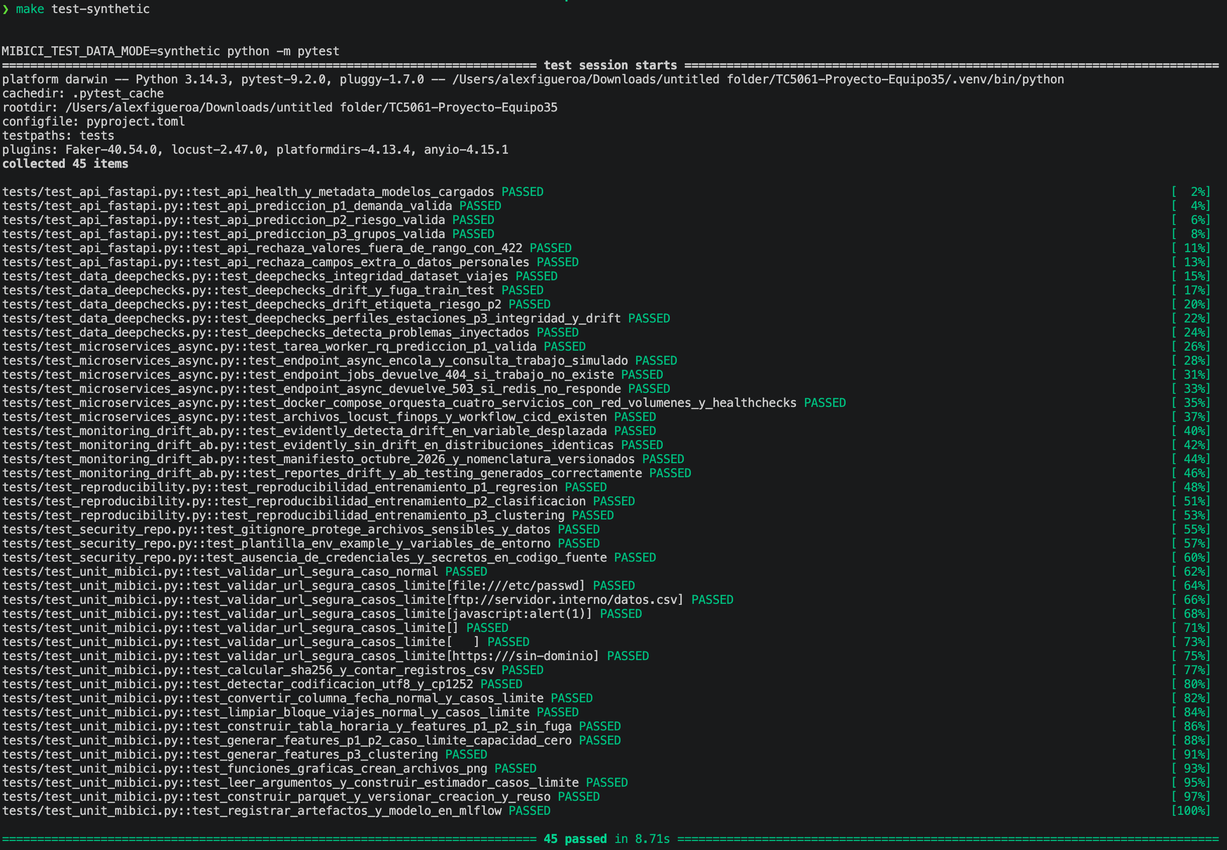
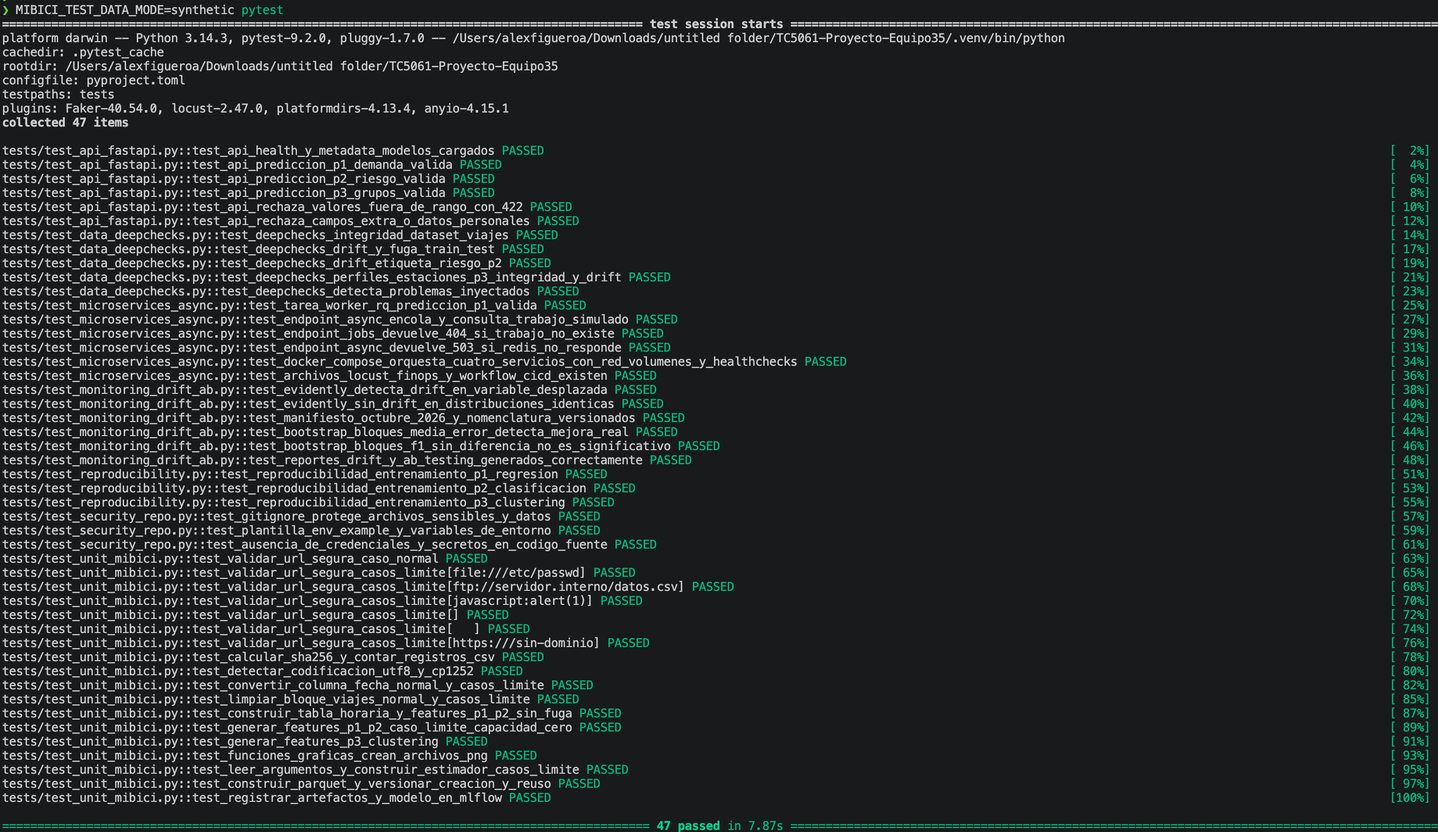
docs(readme): consolidar proyecto final, evidencias de 47 pruebas, Model Card y referencias APA 7

Changed region(s): [[0.0, 0.0, 1.0, 1.0], [0.5602, 0.6775, 0.5913, 0.7083], [0.498, 0.7699, 0.5291, 0.8007]]

diff --git a/README.md b/README.md
@@ -56,7 +56,7 @@ El proyecto fue generado con `cookiecutter-data-science` (`ccds`) activando `inc
 ├── python_env.yaml          <- Entorno del MLflow Project con versiones fijas de Python y dependencias
 ├── pyproject.toml           <- Metadatos del paquete instalable mibici
 ├── requirements.txt         <- Dependencias fijas con versiones exactas (==)
-├── README.md                <- Documentación de reproducción, servidor MLflow y Model Registry
+├── README.md                <- Documentación integral del ciclo de vida MLOps del proyecto MiBici
 ├── data/
 │   ├── external/
 │   ├── interim/             <- Caché local de tablas de features (ignorado en Git)
@@ -64,6 +64,8 @@ El proyecto fue generado con `cookiecutter-data-science` (`ccds`) activando `inc
 │   │   ├── data_version.json         <- Manifiesto SHA-256 del bloque histórico base (128979137b46)
 │   │   └── data_version_2026_10.json <- Manifiesto SHA-256 del lote de producción Oct 2026 (3542d1d567e1)
 │   └── raw/                 <- Archivos CSV mensuales y snapshots versionados de nomenclatura (2026_09 y 2026_10)
+├── docs/
+│   └── MODEL_CARD.md        <- Model Card completo (Mitchell et al., 2019) para P1, P2 y P3
 ├── load_tests/
 │   ├── locustfile.py        <- Escenarios de pruebas de carga con Locust (síncrono P1/P2/P3 + asíncrono RQ)
 │   ├── monitorear_recursos.py <- Monitor automático de CPU/RAM con podman/docker stats
@@ -80,7 +82,7 @@ El proyecto fue generado con `cookiecutter-data-science` (`ccds`) activando `inc
 │   │   ├── train.py         <- Punto de entrada 'train': baselines, nested runs, candidatos y artefactos
 │   │   └── predict.py       <- Punto de entrada 'register': registro en Model Registry (@champion) e inferencia
 │   └── monitoring/          <- Observabilidad, Data Drift con Evidently (drift_report.py) y A/B Testing (ab_testing.py)
-├── models/                  <- Carpeta para modelos locales (ignorada en Git)
+├── models/                  <- Carpeta para modelos locales y registry_bundle/ exportado del Model Registry
 ├── notebooks/
 │   └── 1.0-equipo35-exploracion-mibici.ipynb
 ├── references/
@@ -91,7 +93,7 @@ El proyecto fue generado con `cookiecutter-data-science` (`ccds`) activando `inc
 │   ├── figures/             <- Gráficas de desempeño (P1, P2, P3), evidencias, Evidently Drift, A/B Testing, Locust y FinOps
 │   ├── monitoring/          <- Reportes interactivos HTML de Evidently y resúmenes JSON de Drift y A/B Testing
 │   └── operations/          <- Reportes HTML/CSV de Locust, métricas de podman stats y resumen JSON FinOps
-└── tests/                   <- Suite automatizada de 45 pruebas (PyTest, Reproducibilidad, DeepChecks, Seguridad, API, Evidently y Microservicios)
+└── tests/                   <- Suite automatizada de 47 pruebas (PyTest, Reproducibilidad, DeepChecks, Seguridad, API, Evidently, Bootstrap y Microservicios)
 ```
 ---
 
@@ -249,6 +251,7 @@ El equipo adoptó **GitHub Flow** con las siguientes reglas:
    * Entrega 3: `feat/seguridad-y-configuracion`, `test/unitarias-y-reproducibilidad`, `test/validacion-datos-deepchecks`, `feat/recuperacion-modelo-registry`, `feat/api-fastapi-validacion-pydantic`, `feat/contenedor-podman-containerfile`.
    * Entrega 4 (Monitoreo y A/B Testing): `feat/ingesta-octubre2026-y-config-monitoreo`, `feat/monitoreo-drift-evidently`, `feat/ab-testing-model-registry-v3`, `docs/reporte-drift-abtest-y-pruebas`.
    * Entrega 5 / Entregable 7 (Microservicios, CI/CD y FinOps): `feat/compose-microservicios-redis-rq`, `feat/pruebas-carga-locust-y-stats`, `feat/analisis-finops-y-graficas`, `feat/pipeline-cicd-pruebas-y-readme`.
+   * Entrega Final (Actividad 11 — Gobernanza, Bootstrap A/B y Consolidación): `feat/ab-testing-bootstrap-bloques`, `feat/sync-registry-bundle-v3`, `docs/model-card-gobernanza`, `docs/readme-final-entrega11`.
 3. **Convención de mensajes de commit:** Basada en *Conventional Commits* 1.0.0 (`feat:`, `fix:`, `docs:`, `refactor:`, `chore:`) seguidos de una descripción concisa en español.
 4. **Fusión con *merge commit*:** Los PR se fusionan con *merge commit* (sin *squash*) para conservar los *commits* que quedan registrados en la etiqueta `git_commit` de cada corrida y versión del Model Registry.
 5. **Exclusión de artefactos pesados:** El archivo `.gitignore` bloquea cualquier archivo `.csv`, `.parquet`, modelos serializados, `mlruns/`, `mlartifacts/` y `mlflow.db` para mantener el repositorio ligero y auditable.
@@ -268,7 +271,7 @@ El equipo adoptó **GitHub Flow** con las siguientes reglas:
 
 ## 9. Pruebas Automatizadas (PyTest + DeepChecks) y Chequeos de Seguridad
 
-En esta entrega se integró al repositorio una suite automatizada de **45 pruebas** en la carpeta dedicada `tests/` (29 pruebas de unidad, reproducibilidad, validación de datos con DeepChecks y seguridad del repositorio, 6 pruebas de los endpoints síncronos de FastAPI, 4 pruebas de monitoreo de *drift* con Evidently y *A/B testing*, y 6 pruebas de microservicios, cola asíncrona Redis/RQ, Compose y CI/CD) junto con controles de seguridad de código, variables de entorno y auditoría de dependencias para asegurar la calidad, reproducibilidad y gobernanza técnica del proyecto MiBici.
+En esta entrega se integró al repositorio una suite automatizada de **47 pruebas** en la carpeta dedicada `tests/` (29 pruebas de unidad, reproducibilidad, validación de datos con DeepChecks y seguridad del repositorio, 6 pruebas de los endpoints síncronos de FastAPI, 6 pruebas de monitoreo de *drift* con Evidently y *A/B testing* con *bootstrap* por bloques, y 6 pruebas de microservicios, cola asíncrona Redis/RQ, Compose y CI/CD) junto con controles de seguridad de código, variables de entorno y auditoría de dependencias para asegurar la calidad, reproducibilidad y gobernanza técnica del proyecto MiBici.
 
 ### 9.1 Estructura de la Carpeta `tests/`
 
@@ -281,7 +284,7 @@ tests/
 ├── test_data_deepchecks.py   <- 5 pruebas de validación de integridad, calidad y drift con DeepChecks para viajes crudos, P1, P2 y P3
 ├── test_security_repo.py     <- 3 pruebas automatizadas de seguridad (.gitignore, .env.example y ausencia de secretos)
 ├── test_api_fastapi.py       <- 6 pruebas de integración y validación Pydantic del servicio API REST (FastAPI)
-├── test_monitoring_drift_ab.py <- 4 pruebas de monitoreo de Data Drift con Evidently, lote Octubre 2026 y A/B Testing
+├── test_monitoring_drift_ab.py <- 6 pruebas de monitoreo de Data Drift con Evidently, lote Octubre 2026 y A/B Testing con bootstrap por bloques
 └── test_microservices_async.py <- 6 pruebas de tareas RQ, endpoints asíncronos (202/200/404/503), Compose y workflow CI/CD
 ```
 
@@ -300,7 +303,7 @@ tests/
 | `features.generar_features_p3_clustering` | Construcción del perfil operativo y geográfico por estación sobre el conjunto de entrenamiento. | Estaciones sin llegadas registradas (reemplazo seguro de denominador `0` por `1` en `ratio_salidas_llegadas`) y validación de proporciones en el rango `[0.0, 1.0]`. |
 | `plots.*` y `train.leer_argumentos` / `construir_estimador` | Creación de archivos `.png` no vacíos para P1 y P2; reemplazo automático de `"from_config"` por las constantes de `mibici/config.py`. | Rechazo con `ValueError` ante preguntas o nombres de modelos no reconocidos (`p99`, `modelo_inexistente`). |
 | `train.registrar_artefactos_y_modelo` | Registro completo en un servidor SQLite de MLflow del dataset de entrenamiento (`mlflow.log_input` con `digest`), manifiesto en `data/data_version.json`, configuración en `config/config.py` y `config/run_config.json`, gráficas en `plots/` y modelo serializado con `signature`, `input_example` y etiqueta `logged_model_uri`. | Verificación de recuperación e inferencia del modelo registrado desde su URI `models:/m-...` comprobando que las predicciones coincidan exactamente con las del modelo en memoria. |
-| **Monitoreo de *Drift* con Evidently y *A/B Testing*** (`test_monitoring_drift_ab.py`) | Ejecución de `Report([DataDriftPreset(), DataSummaryPreset()])` verificando detección de *drift* en variables desplazadas, generación de reporte HTML, validación del manifiesto SHA-256 `data_version_2026_10.json` y estructura de resultados A/B (`v2` vs. `v3`) para P1, P2 y P3. | Verificación de caso límite con distribuciones de referencia y actual idénticas (`0` columnas con *drift* y `0` celdas faltantes) y manejo de rutas fuera de `PROJ_ROOT` (`tmp_path`). |
+| **Monitoreo de *Drift* con Evidently y *A/B Testing*** (`test_monitoring_drift_ab.py`) | Ejecución de `Report([DataDriftPreset(), DataSummaryPreset()])` verificando detección de *drift* en variables desplazadas, generación de reporte HTML, validación del manifiesto SHA-256 `data_version_2026_10.json`, pruebas unitarias del remuestreo *bootstrap* por bloques (`bootstrap_bloques_media_error` y `bootstrap_bloques_f1`) y estructura de resultados A/B (`v2` vs. `v3`) para P1, P2 y P3. | Verificación de caso límite con distribuciones de referencia y actual idénticas (`0` columnas con *drift* y `0` celdas faltantes), predicciones idénticas en *bootstrap* F1 (diferencia `0.0` sin significancia falsa) y manejo de rutas fuera de `PROJ_ROOT` (`tmp_path`). |
 | **Microservicios, Cola RQ, Compose y CI/CD** (`test_microservices_async.py`) | Ejecución directa de `tasks.ejecutar_prediccion_p1_asincrona`, flujo encolado `POST /predict/async/p1-demanda` (HTTP 202) y consulta `GET /jobs/{job_id}` (HTTP 200), validación de los 4 servicios con red/volúmenes/*healthchecks* en `docker-compose.yml` y estructura de los 4 *jobs* de `.github/workflows/ci-cd-mibici.yml`. | Manejo controlado de errores ante trabajo inexistente (HTTP 404) y caída o indisponibilidad del broker Redis (HTTP 503). |
 | **Reproducibilidad del entrenamiento** (`test_reproducibility.py`) | Dos ejecuciones independientes con la misma semilla (`RANDOM_SEED = 42`) para **P1** (`HistGradientBoostingRegressor`, `RandomForestRegressor`, `Ridge`), **P2** (`HistGradientBoostingClassifier`, `LogisticRegression`, `RandomForestClassifier`) y **P3** (`KMeans`). | Verificación estricta con `np.testing.assert_allclose` (`rtol=1e-12`, `atol=1e-12`) y `assert_array_equal` de que dos corridas con la misma semilla producen **exactamente las mismas predicciones, probabilidades, asignaciones de cluster y métricas** (`MAE`, `R2`, `F1-Score`, `ROC-AUC` y `Silhouette Score`). |
 
@@ -362,7 +365,7 @@ Desde la raíz del repositorio con el entorno virtual activado (`source .venv/bi
   ```
 
 * **Modo 2 — Con dataset sintético de respaldo (en un clon limpio sin haber ejecutado aún la ingesta):**
-  Si acabas de clonar el repositorio y deseas correr las 45 pruebas de inmediato sin descargar los 48 archivos CSV ni generar el Parquet, ejecuta:
+  Si acabas de clonar el repositorio y deseas correr las 47 pruebas de inmediato sin descargar los 48 archivos CSV ni generar el Parquet, ejecuta:
   ```bash
   MIBICI_TEST_DATA_MODE=synthetic pytest
   # O mediante el comando del Makefile:
@@ -386,11 +389,11 @@ make security
 
 ### 9.6 Evidencia de Ejecución Exitosa de Pruebas y Chequeos de Seguridad
 
-**1. Ejecución exitosa de las 45 pruebas automatizadas (PyTest + Reproducibilidad + DeepChecks en P1, P2 y P3 + Seguridad + API) sobre datos reales (`45 passed` sin *warnings*):**
+**1. Ejecución exitosa de las 47 pruebas automatizadas (PyTest + Reproducibilidad + DeepChecks en P1, P2 y P3 + Seguridad + API + Evidently/Bootstrap + Microservicios) sobre datos reales (`47 passed` sin *warnings*):**
 
 ![Evidencia PyTest y DeepChecks en modo real](reports/figures/evidencia_pytest_real.png)
 
-**2. Ejecución exitosa de las 45 pruebas automatizadas usando el dataset sintético de respaldo (`MIBICI_TEST_DATA_MODE=synthetic pytest`, `45 passed` sin *warnings*):**
+**2. Ejecución exitosa de las 47 pruebas automatizadas usando el dataset sintético de respaldo (`MIBICI_TEST_DATA_MODE=synthetic pytest`, `47 passed` sin *warnings*):**
 
 ![Evidencia PyTest y DeepChecks en modo sintético](reports/figures/evidencia_pytest_synthetic.png)
 
@@ -421,12 +424,12 @@ En esta entrega se empaquetaron los tres modelos campeones del proyecto MiBici (
 │       └── main.py               <- Aplicación FastAPI con endpoints /health, /metadata y 3 rutas de predicción
 ├── models/
 │   └── registry_bundle/          <- Artefactos descargados del Model Registry para garantizar portabilidad del contenedor
-│       ├── p1_demanda/           <- Modelo registrado mibici-equipo35-p1-demanda (v2, @champion)
-│       ├── p2_riesgo/            <- Modelo registrado mibici-equipo35-p2-riesgo (v2, @champion)
-│       ├── p3_grupos/            <- Modelo registrado mibici-equipo35-p3-grupos (v2, @champion)
+│       ├── p1_demanda/           <- Modelo registrado mibici-equipo35-p1-demanda (@champion)
+│       ├── p2_riesgo/            <- Modelo registrado mibici-equipo35-p2-riesgo (@champion)
+│       ├── p3_grupos/            <- Modelo registrado mibici-equipo35-p3-grupos (@champion)
 │       └── registry_manifest.json<- Manifiesto con versión, alias, run_id, git_commit y data_version
 └── tests/
-    └── test_api_fastapi.py       <- 6 pruebas automatizadas de endpoints HTTP y validaciones Pydantic (total: 45 tests)
+    └── test_api_fastapi.py       <- 6 pruebas automatizadas de endpoints HTTP y validaciones Pydantic (total: 47 tests)
 ```
 
 ### 10.2 Opción Elegida para Recuperar los Modelos desde el Model Registry
@@ -434,7 +437,7 @@ En esta entrega se empaquetaron los tres modelos campeones del proyecto MiBici (
 Para asegurar reproducibilidad en cualquier entorno, el módulo `mibici/api/model_loader.py` implementa una **estrategia híbrida de recuperación desde el Model Registry de MLflow** (controlada por la variable de entorno `MIBICI_MODEL_LOAD_MODE=hybrid`):
 
 1. **Conexión en vivo al Model Registry mediante `MLFLOW_TRACKING_URI`:** Al iniciar el servicio, la API consulta el servidor configurado en `MLFLOW_TRACKING_URI` (por defecto `http://host.containers.internal:5000` dentro del contenedor) e intenta recuperar cada modelo utilizando su nombre oficial y el alias de producción `@champion` (`models:/mibici-equipo35-p1-demanda@champion`, `models:/mibici-equipo35-p2-riesgo@champion` y `models:/mibici-equipo35-p3-grupos@champion`) o su versión explícita (`v2`).
-2. **Respaldo autónomo empaquetado desde el Model Registry (`models/registry_bundle/`):** Mediante el comando `python -m mibici.api.model_loader` (o `make export-models`), los artefactos oficiales y metadatos de linaje de las versiones `@champion` (`v2`) se descargan desde el Model Registry hacia `models/registry_bundle/` y se copian dentro de la imagen OCI durante `podman build`. Si el contenedor se ejecuta en una máquina o entorno de CI/CD donde el servidor externo de MLflow no está encendido, la API carga automáticamente el modelo empaquetado sin interrumpir el servicio.
+2. **Respaldo autónomo empaquetado desde el Model Registry (`models/registry_bundle/`):** Mediante el comando `python -m mibici.api.model_loader` (o `make export-models`), los artefactos oficiales y metadatos de linaje de las versiones `@champion` se descargan desde el Model Registry hacia `models/registry_bundle/` y se copian dentro de la imagen OCI durante `podman build`. Si el contenedor se ejecuta en una máquina o entorno de CI/CD donde el servidor externo de MLflow no está encendido, la API carga automáticamente el modelo empaquetado sin interrumpir el servicio.
 
 ### 10.3 Justificación de la Estrategia de Despliegue Elegida
 
@@ -449,7 +452,7 @@ Con base en los criterios de arquitectura de sistemas de *Machine Learning* (Huy
 El módulo `mibici/api/schemas.py` valida todas las peticiones antes de invocar los modelos:
 * **Restricción de rangos operativos:** Verifica tipos numéricos y dominios válidos del AMG (`hora` $\in [0, 23]$, `dia_semana` $\in [0, 6]$, `mes` $\in [1, 12]$, `dpcapacity` $> 0$, `latitude` $\in [20.0, 21.5]$, `longitude` $\in [-104.0, -102.5]$ y proporciones $\in [0.0, 1.0]$).
 * **Protección de privacidad (`extra="forbid"`):** Cualquier petición que incluya campos no reconocidos o datos personales de usuarios (`Usuario_Id`, `Genero`, `Año_de_nacimiento`) es rechazada automáticamente con código HTTP `422 Unprocessable Entity`.
-* **Pruebas automatizadas (`tests/test_api_fastapi.py`):** Se añadieron **6 pruebas** con `TestClient` (actualizando `requirements.txt` con `httpx2==2.16.0` y `httpcore2==2.16.0`, y `pyproject.toml` con el filtro de advertencias de deprecación de `codecs.open`), integrándose a la suite del repositorio (actualmente **45 pruebas automatizadas**, `45 passed`) y manteniendo **0 alertas** en `bandit` y `pip-audit`.
+* **Pruebas automatizadas (`tests/test_api_fastapi.py`):** Se añadieron **6 pruebas** con `TestClient` (actualizando `requirements.txt` con `httpx2==2.16.0` y `httpcore2==2.16.0`, y `pyproject.toml` con el filtro de advertencias de deprecación de `codecs.open`), integrándose a la suite del repositorio (actualmente **47 pruebas automatizadas**, `47 passed`) y manteniendo **0 alertas** en `bandit` y `pip-audit`.
 
 ### 10.5 Instrucciones para Construir la Imagen, Levantar el Contenedor y Consumir la API con Podman
 
@@ -483,7 +486,7 @@ Ejecuta el contenedor en segundo plano (`-d`), mapeando el puerto `8000` del hos
 podman run --rm -d \
   --name mibici-api \
   -p 8000:8000 \
-  -e MLFLOW_TRACKING_URI=http://host.containers.internal:5000 \
+  -e MLFLOW_TRACKING_URI="http://host.containers.internal:5000" \
   mibici-api-equipo35:1.0
 # O mediante el Makefile:
 make podman-run
@@ -650,20 +653,20 @@ En esta entrega se dotó al proyecto MiBici de una capa de **observabilidad, det
 │   └── monitoring/
 │       ├── __init__.py                             <- Inicializador del paquete de observabilidad y monitoreo
 │       ├── drift_report.py                         <- Reportes HTML/JSON/PNG de Data Drift y Data Quality con Evidently
-│       └── ab_testing.py                           <- Reentrenamiento (v3), registro en MLflow y evaluación A/B Testing
+│       └── ab_testing.py                           <- Reentrenamiento (v3), registro en MLflow y evaluación A/B Testing con bootstrap por bloques
 ├── reports/
 │   ├── figures/
 │   │   ├── drift_evidently_p1_p2_variables.png     <- Magnitud de drift por variable en P1 y P2 (Evidently)
 │   │   ├── drift_evidently_distribuciones_clave.png<- Cambio de distribución en variables operativas críticas
 │   │   ├── drift_evidently_p3_perfiles.png         <- Magnitud de drift en perfiles de estaciones P3 (Evidently)
-│   │   └── ab_testing_comparacion_modelos.png      <- Comparación de desempeño Variante A (v2) vs. Variante B (v3)
+│   │   └── ab_testing_comparacion_modelos.png      <- Comparación Variante A (v2) vs. Variante B (v3) e IC 95% por bootstrap de bloques
 │   └── monitoring/
 │       ├── evidently_drift_p1_p2.html              <- Reporte interactivo HTML de Evidently para P1 y P2
 │       ├── evidently_drift_p3.html                 <- Reporte interactivo HTML de Evidently para P3
 │       ├── drift_summary_equipo35.json             <- Resumen cuantitativo de Data Drift y Data Quality
-│       └── ab_testing_results_equipo35.json        <- Métricas y pruebas estadísticas pareadas del A/B Testing
+│       └── ab_testing_results_equipo35.json        <- Métricas e intervalos de confianza al 95% por bootstrap de bloques (días y estaciones)
 └── tests/
-    └── test_monitoring_drift_ab.py                 <- 4 pruebas automatizadas de Evidently, lote 2026-10 y A/B Testing (total: 45 tests)
+    └── test_monitoring_drift_ab.py                 <- 6 pruebas automatizadas de Evidently, lote 2026-10 y bootstrap por bloques (total: 47 tests)
 ```
 
 ### 11.2 Definición y Justificación de los Conjuntos de Datos (Referencia vs. Actual)
@@ -705,23 +708,27 @@ Utilizando la API vigente de `evidently==0.7.23` (`Report([DataDriftPreset(), Da
 
 ![Resumen de Data Drift en perfiles de estaciones P3 con Evidently](reports/figures/drift_evidently_p3_perfiles.png)
 
-### 11.4 Entrenamiento de la Versión Alternativa (`v3`) y Resultados del A/B Testing
+### 11.4 Entrenamiento de la Versión Alternativa (`v3`) y Resultados del A/B Testing (Bootstrap por Bloques)
 
-Se entrenó una segunda versión alternativa (**Variante B: `v3`**) para cada modelo incorporando el histórico completo previo al mes de prueba (**Octubre 2022 – Septiembre 2026**, 48 meses, ponderando las observaciones de 2026) y actualizando las capacidades con `nomenclatura_2026_10.csv` (`max_iter=300, max_depth=12, learning_rate=0.06` en P1 y P2; `KMeans K=4, n_init=20` sobre las 469 estaciones activas de 2026 en P3). Las tres versiones se registraron como **`v3`** en el Model Registry de MLflow y se compararon contra la **Variante A (`v2`)** sobre el mismo conjunto de evaluación de **Octubre 2026 (`208,912` observaciones horarias y `469` estaciones)**:
+Se entrenó una segunda versión alternativa (**Variante B: `v3`**) para cada modelo incorporando el histórico completo previo al mes de prueba (**Octubre 2022 – Septiembre 2026**, 48 meses, ponderando las observaciones de 2026) y actualizando las capacidades con `nomenclatura_2026_10.csv` (`max_iter=300, max_depth=12, learning_rate=0.06` en P1 y P2; `KMeans K=4, n_init=20` sobre las 469 estaciones activas de 2026 en P3). Las tres versiones se registraron como **`v3`** en el Model Registry de MLflow y se compararon contra la **Variante A (`v2`)** sobre el mismo conjunto de evaluación de **Octubre 2026 (`208,912` observaciones horarias, `31` días y `469` estaciones)**.
 
-| Modelo / Tarea | Métrica Evaluada (Oct 2026) | Variante A (`v2` — Train Dic 2025) | Variante B (`v3` — Reentrenada Sep 2026) | Prueba $t$ Pareada ($t$ / $p\text{-valor}$) | Decisión y Alias en Registry |
-| :--- | :--- | :---: | :---: | :---: | :--- |
-| **P1 (`mibici-equipo35-p1-demanda`)** | `MAE` Global / Hora Pico<br>`RMSE` / $R^2$<br>Sesgo Medio (*Bias*) | `1.3572` / `1.5718`<br>`2.1109` / `0.6511`<br>`-0.3003` | **`1.3427`** / **`1.5537`**<br>**`2.0666`** / **`0.6656`**<br>**`-0.2810`** | $t = 19.1902$<br>$p = 5.26 \times 10^{-82}$ | **Gana `v3`** (`v3` $\to$ `@champion`, `v2` $\to$ `@challenger`) |
-| **P2 (`mibici-equipo35-p2-riesgo`)** | `F1-Score` / `Precision`<br>`Recall` / `ROC-AUC`<br>`PR-AUC` / `Brier Score` | **`0.1913`** / **`0.1086`**<br>`0.8055` / `0.8574`<br>`0.2448` / **`0.1563`** | `0.1873` / `0.1056`<br>**`0.8280`** / **`0.8622`**<br>**`0.2512`** / `0.1649` | $t = -111.1332$<br>$p < 10^{-100}$ | **Se mantiene `v2`** (`v2` $\to$ `@champion`, `v3` $\to$ `@challenger`) |
-| **P3 (`mibici-equipo35-p3-grupos`)** | `Silhouette Score`<br>`Davies-Bouldin Index`<br>Dist. Centroide / Share Mín. | `0.1533`<br>`1.8117`<br>`2.3685` / `10.45%` | **`0.1601`**<br>**`1.7937`**<br>**`2.3142`** / **`19.19%`** | $t = 2.4453$<br>$p = 0.0148$ | **Gana `v3`** (`v3` $\to$ `@champion`, `v2` $\to$ `@challenger`) |
+**Justificación metodológica del remuestreo *bootstrap* por bloques:** Tratar cada observación estación $\times$ hora como independiente infla artificialmente el tamaño muestral efectivo y exagera la significancia estadística debido a la autocorrelación temporal (rezagos `lag_1`, `lag_2`, `lag_24` y media móvil de 3 horas) y a los efectos compartidos por red y por estación. Para estimar de forma rigurosa la incertidumbre directamente sobre las métricas operativas (`MAE`, `F1-Score`, `Brier Score`, `PR-AUC`, distancia al centroide y `Silhouette Score`), se aplicó **remuestreo *bootstrap* por bloques** (`2,000` réplicas en métricas primarias, `300` en `PR-AUC` y `500` en `Silhouette`; semilla `42`) agrupando por **31 días** y por **469 estaciones**, con intervalos de confianza al 95% y $p$-valor bilateral con corrección de continuidad (Efron & Tibshirani, 1993):
 
-![Resultados del A/B Testing en Octubre 2026: Variante A (v2) vs Variante B (v3)](reports/figures/ab_testing_comparacion_modelos.png)
+| Modelo / Tarea | Métrica Evaluada (Oct 2026) | Variante A (`v2` — Dic 2025) | Variante B (`v3` — Sep 2026) | Diferencia (`v3 - v2`) | Bootstrap por Días (`31`) — IC 95% / $p$ | Bootstrap por Estaciones (`469`) — IC 95% / $p$ | Decisión y Alias en Registry |
+| :--- | :--- | :---: | :---: | :---: | :---: | :---: | :--- |
+| **P1 (`mibici-equipo35-p1-demanda`)** | `MAE` Global<br>`MAE` Pico / `RMSE` / $R^2$<br>Sesgo Medio (*Bias*) | `1.3572`<br>`1.5718` / `2.1109` / `0.6511`<br>`-0.3003` | **`1.3427`**<br>**`1.5537`** / **`2.0666`** / **`0.6656`**<br>**`-0.2810`** | **`-0.0144`** | `[-0.0175, -0.0116]`<br>$p = 0.0010$ *(Sig.)* | `[-0.0212, -0.0089]`<br>$p = 0.0010$ *(Sig.)* | **Gana `v3`** (`v3` $\to$ `@champion`, `v2` $\to$ `@challenger`) |
+| **P2 (`mibici-equipo35-p2-riesgo`)** | `F1-Score` (umbral `0.50`)<br>`Brier Score` (calibración)<br>`PR-AUC`<br>`Precision` / `Recall` / `ROC-AUC` | **`0.1913`**<br>**`0.1563`**<br>`0.2448`<br>**`0.1086`** / `0.8055` / `0.8574` | `0.1873`<br>`0.1649`<br>**`0.2512`**<br>`0.1056` / **`0.8280`** / **`0.8622`** | `-0.0040`<br>`+0.0086`<br>`+0.0064` | `[-0.0049, -0.0031]`, $p = 0.0010$<br>`[+0.0083, +0.0088]`, $p = 0.0010$<br>`[+0.0048, +0.0082]`, $p = 0.0066$ | `[-0.0058, -0.0023]`, $p = 0.0010$<br>`[+0.0072, +0.0101]`, $p = 0.0010$<br>`[+0.0019, +0.0103]`, $p = 0.0199$ | **Se mantiene `v2`** (`v2` $\to$ `@champion`, `v3` $\to$ `@challenger`) |
+| **P3 (`mibici-equipo35-p3-grupos`)** | `Dist. Centroide`<br>`Silhouette Score`<br>`Davies-Bouldin` / `Share Mín.` | `2.3685`<br>`0.1533`<br>`1.8117` / `10.45%` | **`2.3142`**<br>`0.1601`<br>**`1.7937`** / **`19.19%`** | **`-0.0543`**<br>`+0.0068` | N/A (perfil por estación) | `[-0.1009, -0.0097]`, $p = 0.0180$ *(Sig.)*<br>`[-0.0028, +0.0149]`, $p = 0.1996$ *(NS)* | **Gana `v3`** (`v3` $\to$ `@champion`, `v2` $\to$ `@challenger`) |
+
+*(Hallazgo relevante del remuestreo por bloques: en **P1** el error estándar por estaciones es más del doble que por días, confirmando heterogeneidad espacial; en **P2** se evidencia estadísticamente que `v3` mejora el ordenamiento `PR-AUC`, pero empeora la calibración `Brier` y el `F1` al umbral `0.50`, respaldando proteger `v2` hasta calibrar el umbral; y en **P3** la reducción de distancia al centroide sí es significativa [$p = 0.0180$], mientras que el alza de `Silhouette` [$p = 0.1996$] cae dentro de la incertidumbre muestral, por lo que `v3` se promueve por su menor distancia al centroide y por eliminar el colapso de grupos).*
+
+![Resultados del A/B Testing en Octubre 2026: Variante A (v2) vs Variante B (v3) con Bootstrap por Bloques](reports/figures/ab_testing_comparacion_modelos.png)
 
 ### 11.5 Recomendación sobre Reentrenamiento Continuo (*Continuous Training*)
 
 Con base en la evidencia empírica de Evidently y del *A/B Testing*, se recomienda implementar una estrategia diferenciada de **Continuous Training (CT) gobernada por compuerta de validación A/B** (Huyen, 2022; Treveil et al., 2020):
 1. **Disparadores híbridos (*Triggers*):** Ejecutar el pipeline de monitoreo con Evidently al cierre de cada publicación mensual de MiBici y activar el reentrenamiento automático cuando: a) más del `35%` de las variables predictoras presenten *drift* significativo (`drift_share >= 0.35`), b) la demanda media horaria se desvíe más de $\pm 10\%$ respecto a la media predicha, o c) el catálogo de nomenclatura registre bajas de estaciones o cambios en `dpcapacity`.
-2. **Promoción selectiva por modelo (Compuerta `@champion` / `@challenger`):** En **P1** y **P3**, donde el *drift* de volumen (`+17.5%` horario y `+29.7%` diario) degradaba las versiones entrenadas en 2025, el reentrenamiento mensual con ponderación reciente mejoró significativamente todas las métricas, por lo que `v3` se promueve a `@champion`. En cambio, en **P2**, dado que la proporción de eventos críticos (`en_riesgo`) permaneció estable (`score = 0.0128`), `v2` conserva mejor calibración y mayor `F1-Score` al umbral operativo de `0.50`, demostrando por qué ningún modelo reentrenado debe desplegarse en producción sin superar primero una evaluación A/B pareada.
+2. **Promoción selectiva por modelo (Compuerta `@champion` / `@challenger`):** En **P1** y **P3**, donde el *drift* de volumen (`+17.5%` horario y `+29.7%` diario) degradaba las versiones entrenadas en 2025, el reentrenamiento mensual con ponderación reciente mejoró significativamente el error operativo y la compactación de grupos, por lo que `v3` se promueve a `@champion`. En cambio, en **P2**, dado que la proporción de eventos críticos (`en_riesgo`) permaneció estable (`score = 0.0128`), `v2` conserva mejor calibración y mayor `F1-Score` al umbral operativo de `0.50`, demostrando por qué ningún modelo reentrenado debe desplegarse en producción sin superar primero una evaluación A/B con remuestreo *bootstrap* por bloques (días y estaciones).
 
 ### 11.6 Instrucciones para Ejecutar el Monitoreo de Drift y el A/B Testing
 
@@ -818,7 +825,7 @@ podman-compose down
 
 El *workflow* **`CI/CD Microservicios MiBici (Equipo 35)`** se dispara automáticamente en cada `push` (ramas `main`, `feat/**`, `fix/**`, `docs/**`, `test/**`), en cada `pull_request` hacia `main` y de forma manual mediante `workflow_dispatch` desde la pestaña **Actions** de GitHub. Incluye cancelación de corridas redundantes (`concurrency`) y cuatro etapas encadenadas:
 
-1. **`pruebas-y-calidad` (Matriz CI en paralelo con caché de `pip`):** Corre dentro de la imagen oficial `python:3.14.3-slim` (garantizando paridad exacta con `Containerfile` y `pyproject.toml`) y divide las **45 pruebas** en dos *jobs* paralelos:
+1. **`pruebas-y-calidad` (Matriz CI en paralelo con caché de `pip`):** Corre dentro de la imagen oficial `python:3.14.3-slim` (garantizando paridad exacta con `Containerfile` y `pyproject.toml`) y divide las **47 pruebas** en dos *jobs* paralelos:
    * `unit-api-microservices`: `test_unit_mibici.py`, `test_reproducibility.py`, `test_api_fastapi.py` y `test_microservices_async.py`.
    * `data-monitoring-security`: `test_data_deepchecks.py` (en modo sintético reproducible), `test_monitoring_drift_ab.py`, `test_security_repo.py` y análisis estático con `bandit -r mibici/`.
 2. **`build-y-despliegue-compose` (CD + Validación E2E):** Construye la imagen OCI desde `Containerfile` con `docker/build-push-action@v6` y caché de capas de GitHub Actions (`type=gha`), valida `docker compose config --quiet`, levanta los **4 microservicios reales** (`docker compose up -d --no-build`), espera hasta que los 4 reporten estado `healthy` y ejecuta pruebas de humo E2E contra MLflow (`:5001/health`), API (`/health` con `redis_conectado=true`), predicciones síncronas (P1, P2, P3) y el ciclo asíncrono completo en Redis/RQ (`/predict/async/p1-demanda` $\to$ `/jobs/{job_id}` con `status=finished`).
@@ -920,7 +927,28 @@ Con base en el consumo real medido (`953.76 MB` de RAM pico y `37.74%` de CPU pi
 3. **Escalamiento de *workers* Uvicorn y modo *SimpleWorker* / *batching* en RQ:** Pasar de 1 a 2 *workers* en Uvicorn aprovecharía las 2 vCPU disponibles para reducir el P95 de P1 (`170 ms`) y P2 (`150 ms`), y usar inferencia por lotes (*micro-batching*) en el corte horario de las 360 estaciones reduciría la sobrecarga de *fork* observada en `mibici-rq-worker`.
 4. **Caché de predicciones en Redis y apagado programado en madrugada:** Aprovechar Redis (actualmente en `6.96 MB` de RAM) para cachear resultados de P1/P2 por `(estacion, hora)` con TTL de 5 minutos y programar ventanas de cómputo acordes al horario operativo de MiBici (`05:00` a `23:59`, ahorro del `66.2%` sin compromiso anual).
 
-## 13. Referencias Bibliográficas
+---
+
+## 13. Gobernanza Responsable, Model Card y Consolidación del Proyecto Final
+
+Para cerrar el ciclo de vida completo de MLOps con prácticas responsables de documentación y auditoría (Mitchell et al., 2019; Huyen, 2022), se integró el **Model Card oficial del sistema MiBici** en [`docs/MODEL_CARD.md`](docs/MODEL_CARD.md).
+
+### 13.1 Contenido del Model Card (`docs/MODEL_CARD.md`)
+El documento cubre los 3 modelos en producción (**P1 `v3`**, **P2 `v2`** y **P3 `v3`**) a lo largo de 9 secciones: detalles y linaje completo en el Model Registry (`Run ID`, `data_version`, algoritmos y aliases `@champion`/`@challenger`), uso previsto y usos fuera de alcance, factores operativos y territoriales, métricas y protocolo de *bootstrap* por bloques, datos de entrenamiento/evaluación, análisis cuantitativo (desarrollo, producción, carga Locust y FinOps), consideraciones éticas (*Privacy by Design* y equidad territorial en el AMG), limitaciones conocidas y plan de mantenimiento (*Continuous Training* y *rollback*).
+
+### 13.2 Mapa de Integración de Extremo a Extremo (Proyecto Integrador MiBici)
+
+| Pilar de MLOps | Implementación en el Repositorio | Evidencia / Artefacto Verificable |
+| :--- | :--- | :--- |
+| **Estructura y Experimentación** | Cookiecutter Data Science + `mibici/features.py` (sin fuga temporal) + `MLproject` (`python_env.yaml`) + MLflow Tracking (`nested runs` y artefactos). | `MLproject`, `mibici/`, `data/processed/data_version.json` (`128979137b46`), `reports/figures/p1_*`, `p2_*`, `p3_*`. |
+| **Modelo y Model Registry** | Modelos `P1`, `P2` y `P3` registrados y versionados (`v1`, `v2`, `v3`) con linaje explícito y aliases `@champion` (`P1 v3`, `P2 v2`, `P3 v3`) / `@challenger`. | `mibici/modeling/predict.py`, `models/registry_bundle/registry_manifest.json`, `mlflow.db`. |
+| **Calidad, Seguridad y CI/CD** | Suite de **47 pruebas** (`pytest` real y sintético + `DeepChecks` + reproducibilidad), `bandit` (`0` alertas), `pip-audit` (`0` CVEs) y GitHub Actions (matriz CI + Compose E2E + `ghcr.io`). | `tests/`, `.github/workflows/ci-cd-mibici.yml`, `reports/figures/evidencia_seguridad.png`. |
+| **Despliegue y Operación** | API REST con FastAPI y Pydantic (`extra="forbid"`), `Containerfile` OCI no-root, orquestación de 4 microservicios (`docker-compose.yml`) y pruebas de carga con Locust (`0.00%` error, P95 `130 ms` en 50 usuarios). | `mibici/api/`, `docker-compose.yml`, `load_tests/`, `reports/operations/locust_report_*.html`. |
+| **Monitoreo, Gobernanza y FinOps** | Reportes de *drift* con Evidently (`v0.7.23`), A/B Testing con **bootstrap por bloques** (31 días y 469 estaciones), análisis FinOps (`-69.9%` costo mensual a `$9.63 USD/mes`) y Model Card. | `reports/monitoring/evidently_drift_*.html`, `ab_testing_results_equipo35.json`, `reports/operations/finops_summary_equipo35.json`, [`docs/MODEL_CARD.md`](docs/MODEL_CARD.md). |
+
+---
+
+## 14. Referencias Bibliográficas
 
 * Acuerdo DIELAG ACU 065/2022. (2022, 13 de octubre). Acuerdo del Ciudadano Gobernador Constitucional del Estado Libre y Soberano de Jalisco, mediante el cual se abroga el diverso acuerdo DIELAG ACU 016/2022. *Periódico Oficial "El Estado de Jalisco"*, Tomo CDV(28, Sección IV), 3–7.
 * Amazon Web Services. (2026). *Amazon EC2 On-Demand and Reserved Instance Pricing (US East - N. Virginia)*. [https://aws.amazon.com/ec2/pricing/](https://aws.amazon.com/ec2/pricing/)
@@ -930,6 +958,7 @@ Con base en el consumo real medido (`953.76 MB` de RAM pico y `37.74%` de CPU pi
 * Deepchecks. (2024). *Deepchecks documentation: Continuous validation for machine learning*. [https://docs.deepchecks.com/stable/getting-started/welcome.html](https://docs.deepchecks.com/stable/getting-started/welcome.html)
 * Docker Inc. (2026). *Docker Compose and docker container stats documentation*. [https://docs.docker.com/compose/](https://docs.docker.com/compose/)
 * DrivenData. (2024). *Cookiecutter Data Science* (Versión 2) [Documentación]. [https://cookiecutter-data-science.drivendata.org/](https://cookiecutter-data-science.drivendata.org/)
+* Efron, B., & Tibshirani, R. J. (1993). *An introduction to the bootstrap*. Chapman & Hall/CRC.
 * Encode. (2024). *Uvicorn: An ASGI web server implementation for Python*. [https://www.uvicorn.org/](https://www.uvicorn.org/)
 * Evidently AI. (2023, 28 de septiembre). *Tutorial de Evidently* [Serie de videos]. YouTube. [https://www.youtube.com/@EvidentlyAI](https://www.youtube.com/@EvidentlyAI)
 * Evidently AI. (2026). *Evidently documentation: Data and ML checks* (Versión 0.7.23). [https://docs.evidentlyai.com/introduction](https://docs.evidentlyai.com/introduction)
@@ -943,6 +972,7 @@ Con base en el consumo real medido (`953.76 MB` de RAM pico y `37.74%` de CPU pi
 * Krekel, H., Oliveira, B., Pfannschmidt, R., Bruynooghe, F., Laugher, B., & Bruhin, F. (2024). *pytest: Helps you write better programs*. [https://docs.pytest.org/en/stable/](https://docs.pytest.org/en/stable/)
 * Lakshmanan, V., Robinson, S., & Munn, M. (2020). *Machine learning design patterns: Solutions to common challenges in data preparation, model building, and MLOps*. O'Reilly Media.
 * MiBici. (2026). *Datos abiertos del sistema de bicicletas públicas MiBici* [Conjunto de datos]. Agencia Metropolitana de Servicios de Infraestructura para la Movilidad del Área Metropolitana de Guadalajara. [https://mibici.net/es/datos-abiertos/](https://mibici.net/es/datos-abiertos/)
+* Mitchell, M., Wu, S., Zaldivar, A., Barnes, P., Vasserman, L., Hutchinson, B., Spitzer, E., Raji, I. D., & Gebru, T. (2019). Model cards for model reporting. En *Proceedings of the Conference on Fairness, Accountability, and Transparency (FAT* '19)* (pp. 220–229). Association for Computing Machinery. [https://doi.org/10.1145/3287560.3287596](https://doi.org/10.1145/3287560.3287596)
 * MLflow. (2026). *MLflow documentation: MLflow Tracking, Model Registry and Deployment*. [https://mlflow.org/docs/latest/ml/model-registry/](https://mlflow.org/docs/latest/ml/model-registry/)
 * Ong, S., & Driessen, V. (2026). *RQ: Simple job queues for Python* (Versión 3.0.0). [https://python-rq.org/](https://python-rq.org/)
 * Open Container Initiative. (2024). *OCI Image Format Specification*. Linux Foundation. [https://github.com/opencontainers/image-spec](https://github.com/opencontainers/image-spec)
